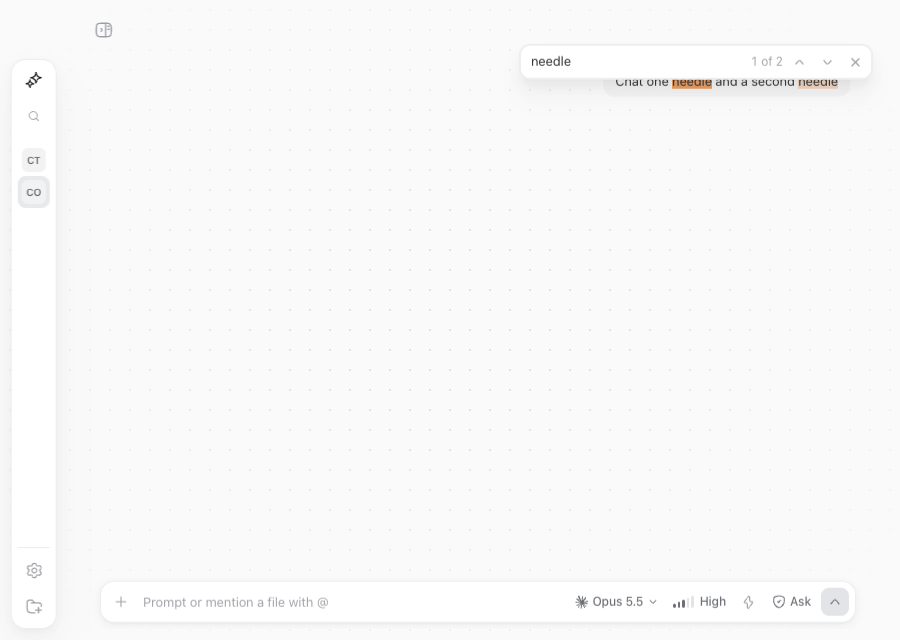
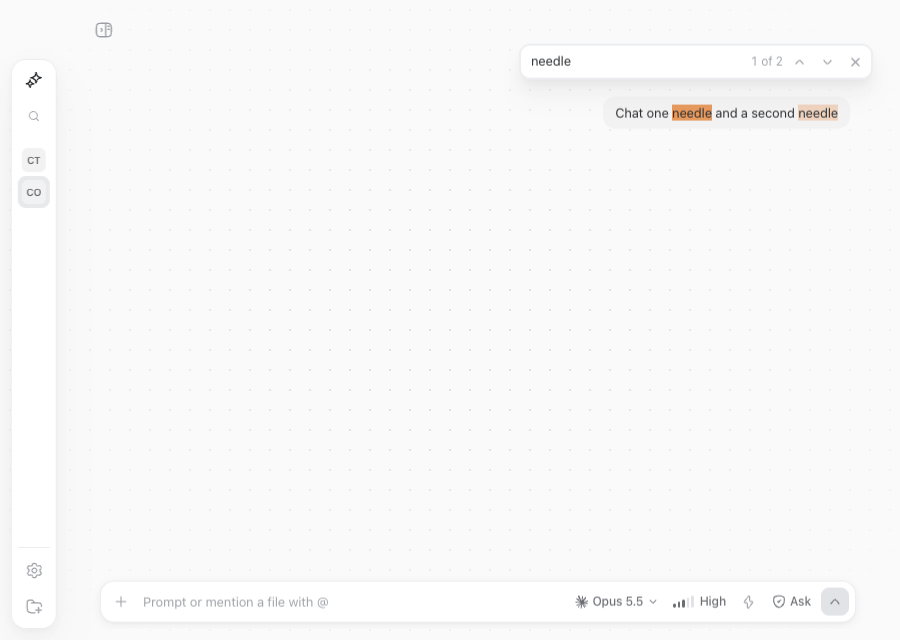
fix: keep the first message below the find bar while it is open

Changed region(s): [[0.6844, 0.125, 0.9333, 0.1875]]

diff --git a/app/src/components/ChatComposer.tsx b/app/src/components/ChatComposer.tsx
@@ -362,7 +362,8 @@ export function ChatComposer({
         smooth
         busy={isSending}
         className="min-h-0 flex-1"
-        viewportClassName="pt-4 pb-2"
+        // The find bar floats over the top of the chat, so the first message moves below it while it is open.
+        viewportClassName={`${findOpen ? "pt-12" : "pt-4"} pb-2`}
         contentClassName="min-h-full"
         autoScrollKey={`${messages.length}-${isSending}-${streamingText?.length ?? 0}-${streamingSteps?.length ?? 0}`}
         viewportProps={{ onScroll: (event) => setScrolled(event.currentTarget.scrollTop > 4) }}
